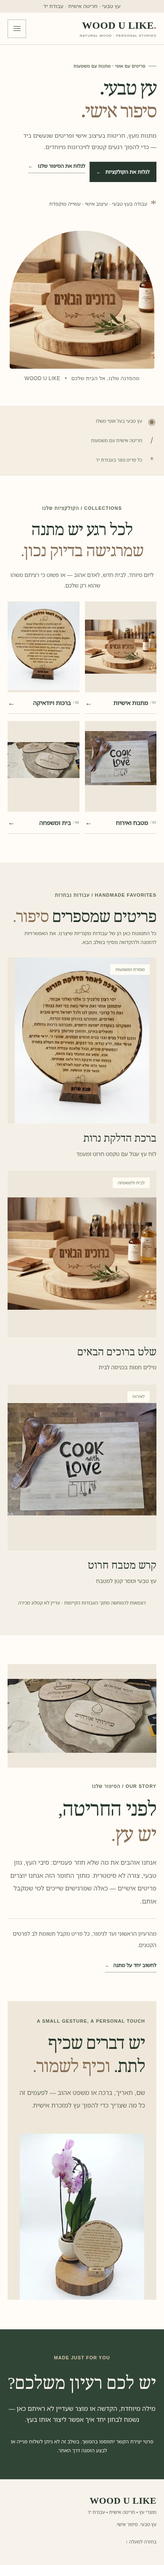
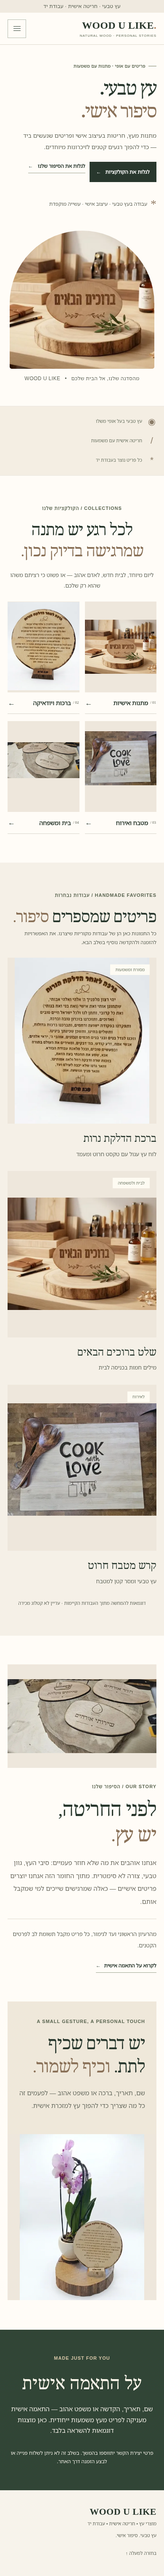
Address WUL-002 team lead QA corrections

diff --git a/index.html b/index.html
@@ -38,7 +38,7 @@
           ><a href="#story">הסיפור שלנו</a>
         </nav>
         <a href="#personal" class="header-cta"
-          >מתנה בהתאמה אישית <span aria-hidden="true">←</span></a
+          >על התאמה אישית <span aria-hidden="true">←</span></a
         >
         <button
           class="menu-toggle"
@@ -53,7 +53,7 @@
       </div>
       <nav class="mobile-nav" id="mobile-nav" hidden aria-label="ניווט במובייל">
         <a href="#collections">קולקציות</a><a href="#favorites">מוצרים נבחרים</a
-        ><a href="#story">הסיפור שלנו</a><a href="#personal">מתנה אישית</a>
+        ><a href="#story">הסיפור שלנו</a><a href="#personal">על התאמה אישית</a>
       </nav>
     </header>
     <main id="main" tabindex="-1">
@@ -320,7 +320,7 @@
             מהרעיון הראשוני ועד לגימור, כל פריט מקבל תשומת לב לפרטים הקטנים.
           </p>
           <a href="#personal" class="text-link"
-            >לחשוב יחד על מתנה <span aria-hidden="true">←</span></a
+            >לקרוא על התאמה אישית <span aria-hidden="true">←</span></a
           >
         </div>
       </section>
@@ -352,10 +352,10 @@
       <section id="personal" class="custom">
         <div class="wrap custom-inner">
           <p class="section-kicker">MADE JUST FOR YOU</p>
-          <h2>יש לכם רעיון משלכם?</h2>
+          <h2>על התאמה אישית</h2>
           <p>
-            מילה מיוחדת, הקדשה או מוצר שעדיין לא ראיתם כאן — נשמח לבחון יחד איך
-            אפשר ליצור אותו בעץ.
+            שם, תאריך, הקדשה או משפט אהוב — התאמה אישית מעניקה לפריט מעץ
+            משמעות ייחודית. כאן מוצגות דוגמאות להשראה בלבד.
           </p>
           <p class="custom-placeholder">
             פרטי יצירת הקשר יתווספו בהמשך. בשלב זה לא ניתן לשלוח פנייה או לבצע

diff --git a/README.md b/README.md
@@ -1,6 +1,7 @@
 # wood-u-like-site
 
-אתר עצמאי למותג **WOOD U LIKE**. שלב 1: עמוד זמני בעברית, RTL ורספונסיבי.
+אתר עצמאי למותג **WOOD U LIKE**. שלב 2: עמוד בית בסגנון Natural Boutique, בעברית, RTL ורספונסיבי.
+הגרסה בענף הפיתוח ממתינה לבקרת איכות; האתר הציבורי עדיין מציג את שלב 1.
 
 ## פיתוח מקומי
 
@@ -15,10 +16,10 @@ python3 -m http.server 8000 --bind 127.0.0.1
 
 ## מבנה
 
-- `index.html` — עמוד הפתיחה, מטא־דאטה, עברית ונגישות בסיסית.
+- `index.html` — עמוד הבית, אזורי המותג, עבודות נבחרות ומידע על התאמה אישית.
 - `assets/css/style.css` — סגנונות ותצוגה רספונסיבית.
-- `assets/js/main.js` — מקום להרחבות עתידיות; העמוד פועל גם ללא JavaScript.
-- `assets/images/README.md` — הנחיות לחומרי מותג מקוריים.
+- `assets/js/main.js` — תפריט מובייל נגיש; ניווט חלופי זמין גם ללא JavaScript.
+- `assets/images/README.md` — תיעוד חמש התמונות המקוריות וגרסאות WebP רספונסיביות.
 
 ## GitHub Pages
 
@@ -35,7 +36,9 @@ python3 -m http.server 8000 --bind 127.0.0.1
 
 אפשר להוסיף עמודים ותיקיות לקטגוריות, מוצרים, אודות וגרסה באנגלית, ולשמור נכסים משותפים ב־`assets`.
 גלריות, התאמה אישית, טופס הזמנה ותשלום יוגדרו במשימות נפרדות. הם אינם ממומשים בשלב זה.
-אין כרגע תמונות מוצרים, מחירים, פרטי קשר או לוגו.
+קיימות חמש תמונות מקוריות עם גרסאות WebP קטנות וגופני Noto Hebrew מקומיים.
+המיתוג מוצג באמצעות Wordmark טיפוגרפי; אין לוגו גרפי רשמי, מחירים או פרטי קשר.
+אזור ההתאמה האישית הוא מידע בלבד ואינו מאפשר פנייה או הזמנה.
 
 הפרויקט נפרד מ־ASSEMBLE LAB; אין צורך לשנות את המאגר שלו.
 

diff --git a/docs/review/REPORT_HE.md b/docs/review/REPORT_HE.md
@@ -94,3 +94,18 @@ NODE_PATH=/tmp/wul-check/node_modules node tools/check-homepage.cjs
 - לוגו רשמי וחומרי מותג נוספים יחליפו את ה־Wordmark רק במשימה נפרדת ובהרשאה.
 
 לא בוצעה שום פעולה משנה במאגר `mataniar0/assembl-lab-site`.
+
+## תיקוני בקרת איכות — סבב 1
+
+בוצעו שלושת תיקוני החובה מהערת ראש הצוות `6079376410`:
+
+- כל קישורי ההתאמה האישית מוצגים כקישורי מידע: ״על התאמה אישית״ / ״לקרוא על התאמה אישית״. כותרת האזור ותוכנו מתארים מידע ודוגמאות להשראה, ללא הזמנה לפנייה שאינה זמינה.
+- README עודכן לשלב 2 ולתמונות ולגופנים הקיימים; הוא מבחין בין ענף הפיתוח לבין האתר הציבורי בשלב 1.
+- תיאור PR #2 מקושר למשימה באמצעות `Refs #1`, ללא סגירת Issue.
+
+סבב אימות מלא נוסף ב־390/768/1440: PASS; תוצאות המכונה וששת צילומי המסך עודכנו.
+סה״כ ארבעה סבבי אימות מלאים למשימה; סבב תיקון החובה הנוכחי עבר ללא תיקון יישום נוסף.
+בניסיון הראשון בסבב הנוכחי שרת הבדיקה מההפעלה הקודמת החזיר תגובה ריקה; הופעל מחדש ורק אז הורצו הבדיקות המלאות.
+
+השיפורים שהוגדרו לא חוסמים (ניקוי CSS, CI ורוחבים נוספים) נשארו להמשך.
+אין מיזוג או פרסום, ואין שינוי ב־ASSEMBLE LAB.
